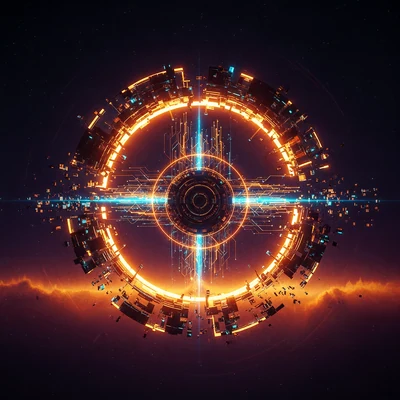
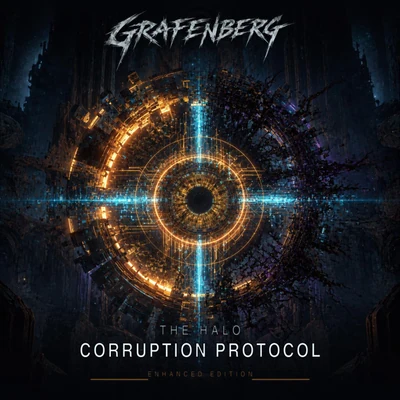
The Halo Corruption Protocol : bascule sur l'Enhanced Edition
L'album est republié en version remasterisée sur le compte SoundCloud
du label, pour qu'il cesse de dépendre d'une page tierce. Le manifeste
pointe désormais sur ce set — un véritable album, là où l'ancien lien
menait à une simple playlist de présentation.

- Nouvelle pochette (Enhanced Edition), nouvelle tracklist, nouveau
  texte de présentation, tous repris par le sync.
- La date d'affichage reste le 23/02/2026, celle de la sortie d'origine.
  Le set porte la date de sa republication ; c'est exactement le cas que
  le champ `date` du manifeste existe pour couvrir, sinon le quatrième
  album deviendrait le plus récent du catalogue.

Deux défauts du script des pochettes, révélés par ce changement

1. L'identifiant d'image Bandcamp change quand une pochette est
   remplacée, et l'ancien disparaît entièrement — l'URL stockée
   renvoyait 404 sur toutes ses variantes. SoundCloud sert maintenant de
   repli, au lieu de perdre la pochette.

2. Le script sautait toute pochette déjà présente sur disque, sans
   regarder si la source avait changé. Le sync hebdomadaire n'aurait
   donc JAMAIS rafraîchi une pochette remplacée, et sans rien signaler.
   Le manifeste enregistre désormais l'URL source, et une différence
   déclenche le réencodage. Vérifié : source falsifiée sur une entrée,
   seule celle-ci est réencodée, les treize autres sont sautées.

diff --git a/src/data/releases.ts b/src/data/releases.ts
@@ -130,9 +130,12 @@ export const releases: CuratedRelease[] = [
     title: 'The Halo Corruption Protocol',
     artist: 'Grafenberg',
     kind: 'album',
-    // Pas de set « album » sur SoundCloud, seulement la playlist de présentation,
-    // téléversée en lot le 18/04/2026. Date réelle relevée sur Bandcamp.
-    soundcloud: 'grafenberg-the-halo-corruption',
+    // Republié en Enhanced Edition remasterisée sur le compte du label, pour
+    // que l'album cesse de dépendre d'une page tierce. Le set porte donc la
+    // date du 23/08/2026 ; celle retenue ci-dessous reste celle de la sortie
+    // d'origine, relevée sur Bandcamp — c'est le même quatrième album, pas un
+    // nouveau disque, et il garde sa place dans la chronologie.
+    soundcloud: 'the-halo-corruption-protocol',
     bandcamp: 'https://kineticdistro.bandcamp.com/album/the-halo-corruption-protocol',
     accent: 'violet',
     date: '2026-02-23',
